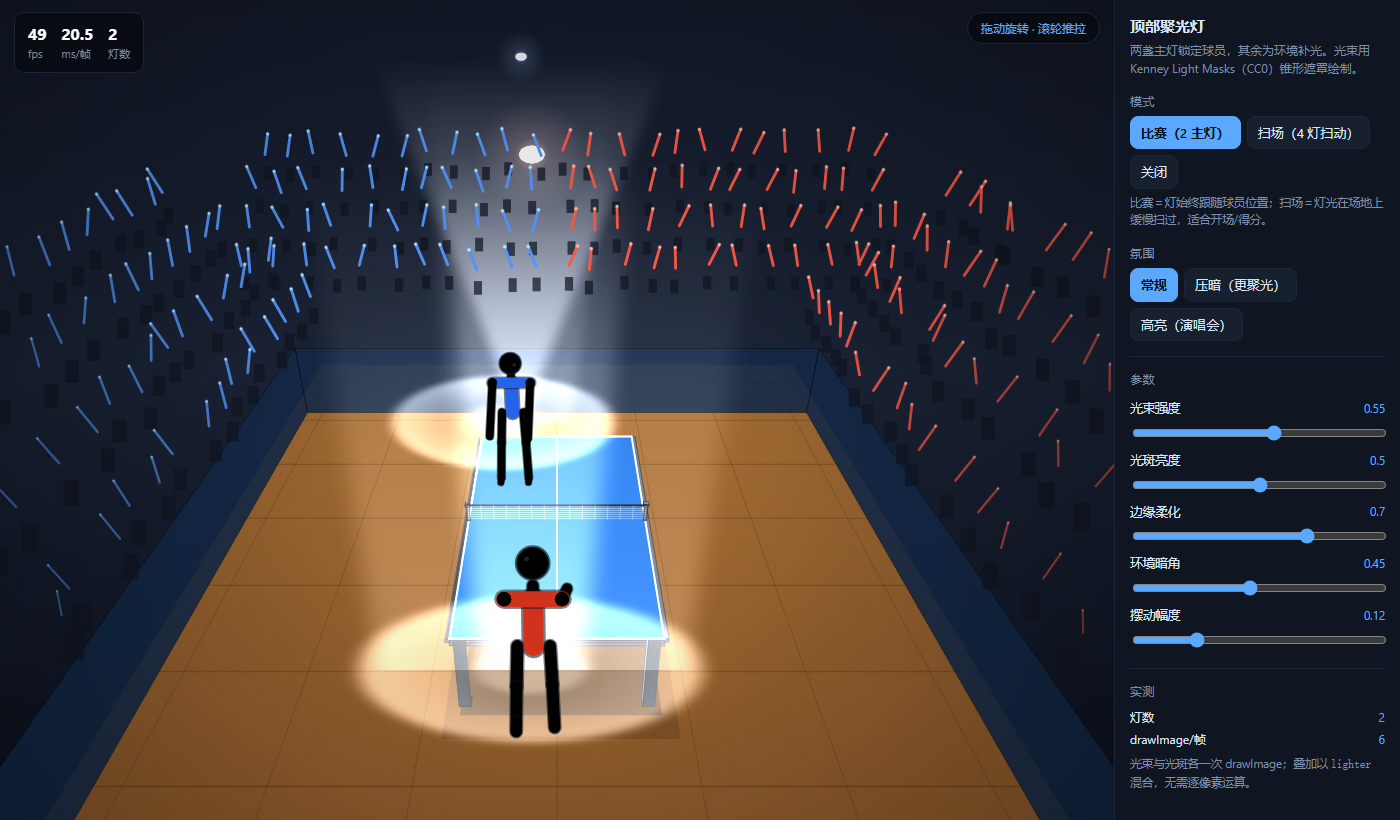
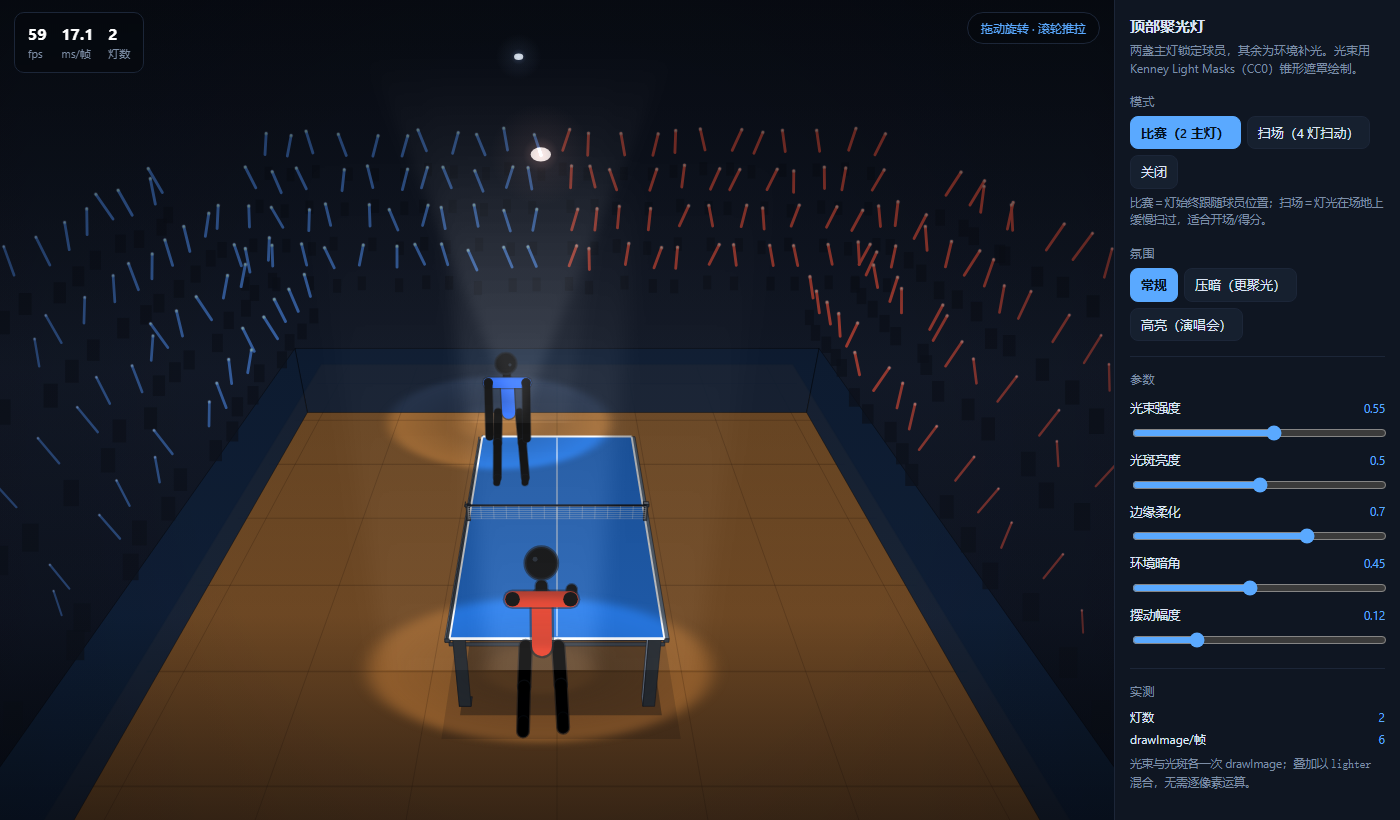
fix(聚光灯): 改为「快照→压暗→遮罩贴回」，解决过亮晃眼与遮挡画面
用户反馈：闪光过亮、晃眼、遮住游戏画面要素。按「拿来主义」吸收体育转播/引擎
shadow-mask 灯光的三条共识后重做光照架构。

★ 根因：旧版用 lighter 把光束(0.55) 与光斑(0.50) **相加**，
  在球员脚下 = 1.05 > 1.0 ⇒ 截断成纯白，既晃眼又把球员/球/台面糊掉。
  「加光」思路的必然结果，调小参数只能缓解不能根治。

新架构（减法）：
  ① takeSnapshot()      压暗前先快照完整场景
  ② drawDarken()        整体压暗（纵向渐变：上下缘重、台面区轻 ⇒ 避让信息区）
  ③ drawPoolsRestore()  用光斑遮罩把快照「贴回」 ⇒ 光斑内 = 原亮度，**不可能超过 1.0**
  ④ drawBeam()          光束 alpha 压到 0.09~0.20（原 0.55），只做空气感
  ⑤ drawLamp()          灯芯 0.95→0.8、光晕 0.55→0.28、半径 0.05→0.04m

吸收的三条设计原则：
  · 灯光是减法不是加法（引擎里 shadow-mask 灯光都是「先压暗、再遮罩还原」）
  · 光束要「几乎看不见」（真实灯束只在烟尘里可见，转播里只见灯位亮点+地面光斑）
  · 灯光避让信息区（压暗用纵向渐变，光斑只落在台面/球员）

踩坑记录（两版失败才做对）：
  · v1 用 destination-out 擦画布 ⇒ 擦出的是**透明**，露出黑底，光斑变黑洞
  · v2 先画遮罩再 destination-in 贴快照 ⇒ 保留的是**遮罩的白色**，一坨白斑
  · 正确：destination-in = 「保留**目标**颜色、用**源**alpha 裁剪」
    ⇒ 必须先画快照（目标），再用遮罩（源）裁；多灯取并集需单独累积 MASK 画布

验证（无头 Edge 1400x820）：
  · 0 JS 报错；比赛/扫场/压暗/高亮四组截图均无过曝
  · 59 fps（软件渲染）；光斑内台面/球员/球清晰可辨
  · check-docs 无死链（14 md / 17 链接）

截图已更新：docs/spotlight_match.png、docs/spotlight_sweep.png

diff --git a/tools/spotlight-demo.html b/tools/spotlight-demo.html
@@ -217,34 +217,164 @@ const SWEEP = [
 /* 灯位：球馆顶部。4.2m + 靠近球员上方——太远会把灯投到画面外，只剩无源白柱。 */
 const LAMP_Y = 4.2;
 
-/* 画一个光束：从灯位到地面目标，用锥形遮罩贴图，贴图下端对准光斑 */
+/* ═══════════════════════════════════════════════════════════════
+ * 光照架构（2026-10-22 重做 v2）：快照 → 压暗 → 按遮罩贴回原图
+ *
+ * 上一版的错误：用 destination-out 直接擦画布 ⇒ 擦出的是**透明**，
+ * 露出下面的黑底 ⇒ 光斑变成黑洞。destination-out 只能擦掉"画布上的像素"，
+ * 擦不出"原本更亮的画面"。
+ *
+ * 正确做法（也是游戏引擎里 shadow-mask 灯光的标准做法）：
+ *   ① 先把「完整场景」快照到一张离屏 canvas
+ *   ② 主画布上整体压暗
+ *   ③ 用遮罩贴图做 destination-in，把快照里「光斑区域」贴回主画布
+ *      ⇒ 光斑内 = 快照原亮度（≤1.0，不可能过曝）
+ *      ⇒ 光斑外 = 压暗后的画面
+ *
+ * 这样灯光是纯减法：只有光斑里恢复原样，其余变暗。
+ * 玩家要看的球/球员/台面在光斑内**完全清晰**，且亮度不超过原图。
+ * ═══════════════════════════════════════════════════════════════ */
+
+/* 离屏快照画布（按主画布尺寸，resize 时重建） */
+let SNAP = null, SNAP_CTX = null;
+function ensureSnap() {
+  const w = cv.width, h = cv.height;
+  if (!SNAP) {
+    SNAP = document.createElement('canvas');
+    SNAP_CTX = SNAP.getContext('2d');
+  }
+  if (SNAP.width !== w || SNAP.height !== h) { SNAP.width = w; SNAP.height = h; }
+  return SNAP_CTX;
+}
+
+/* 把当前主画布内容快照下来（在压暗之前调用） */
+function takeSnapshot() {
+  const sc = ensureSnap();
+  sc.setTransform(1, 0, 0, 1, 0, 0);
+  sc.clearRect(0, 0, SNAP.width, SNAP.height);
+  sc.drawImage(cv, 0, 0);
+}
+
+/* 压暗层：整屏乘暗系数。中下部（球台区）压得轻，上下缘压得重 */
+function drawDarken(strength) {
+  if (strength <= 0.01) return;
+  const g = ctx.createLinearGradient(0, 0, 0, H);
+  g.addColorStop(0, `rgba(2,4,8,${Math.min(1, strength * 1.3)})`);
+  g.addColorStop(0.45, `rgba(2,4,8,${strength * 0.68})`);
+  g.addColorStop(0.75, `rgba(2,4,8,${strength * 0.52})`);
+  g.addColorStop(1, `rgba(2,4,8,${Math.min(1, strength * 1.15)})`);
+  ctx.fillStyle = g;
+  ctx.fillRect(0, 0, W, H);
+}
+
+/* 光斑贴回：用遮罩贴图把快照的「光斑区域」画回主画布。
+   做法：在一张临时画布上，先用遮罩形状裁剪，再把快照贴上去，
+   最后把这张临时画布以 source-over 叠回主画布。 */
+let POOL_TMP = null, POOL_CTX = null;
+function ensurePoolTmp() {
+  const w = cv.width, h = cv.height;
+  if (!POOL_TMP) { POOL_TMP = document.createElement('canvas'); POOL_CTX = POOL_TMP.getContext('2d'); }
+  if (POOL_TMP.width !== w || POOL_TMP.height !== h) { POOL_TMP.width = w; POOL_TMP.height = h; }
+  return POOL_CTX;
+}
+
+/* 多光斑并集贴回。
+   ⚠ 合成顺序是唯一的坑：
+     destination-in = 「保留**目标**颜色，用**源**的 alpha 裁剪」。
+     ⇒ 必须 ① 先画快照（目标＝原始画面） ② 再用遮罩 alpha 裁剪。
+     反过来（先画遮罩、再 destination-in 贴快照）保留的是**遮罩的白色** ⇒ 一坨白斑。
+   多盏灯要取并集，故遮罩先单独累积到 MASK 画布，再一次性裁。 */
+let MASK = null, MASK_CTX = null;
+function ensureMask() {
+  const w = cv.width, h = cv.height;
+  if (!MASK) { MASK = document.createElement('canvas'); MASK_CTX = MASK.getContext('2d'); }
+  if (MASK.width !== w || MASK.height !== h) { MASK.width = w; MASK.height = h; }
+  return MASK_CTX;
+}
+
+function drawPoolsRestore(pools, imgPoolA, imgPoolB) {
+  if (!pools.length || !SNAP) return 0;
+  const mc = ensureMask();
+
+  /* ① 遮罩画布：把所有光斑**累加**成并集（lighter 保证重叠区不被冲淡） */
+  mc.setTransform(1, 0, 0, 1, 0, 0);
+  mc.globalCompositeOperation = 'source-over';
+  mc.globalAlpha = 1;
+  mc.clearRect(0, 0, MASK.width, MASK.height);
+  mc.globalCompositeOperation = 'lighter';
+
+  let drawn = 0;
+  for (const p of pools) {
+    const pr = cam.project(p.target);
+    if (!pr) continue;
+    const rx = p.radius * pr.s;
+    const ry = rx * 0.42;
+    if (rx < 2) continue;
+    const img = p.team === 0 ? imgPoolA : imgPoolB;
+    mc.globalAlpha = p.strength;
+    if (img) {
+      mc.drawImage(img, pr.x - rx, pr.y - ry, rx * 2, ry * 2);
+    } else {
+      const g = mc.createRadialGradient(pr.x, pr.y, 0, pr.x, pr.y, rx);
+      g.addColorStop(0, 'rgba(255,255,255,1)');
+      g.addColorStop(0.5, 'rgba(255,255,255,.75)');
+      g.addColorStop(1, 'rgba(255,255,255,0)');
+      mc.fillStyle = g;
+      mc.beginPath(); mc.ellipse(pr.x, pr.y, rx, ry, 0, 0, 7); mc.fill();
+    }
+    drawn++;
+  }
+  mc.globalAlpha = 1;
+  mc.globalCompositeOperation = 'source-over';
+  if (!drawn) return 0;
+
+  /* ② 临时画布：目标＝快照，源＝遮罩 alpha（destination-in 裁剪） */
+  const pc = ensurePoolTmp();
+  pc.setTransform(1, 0, 0, 1, 0, 0);
+  pc.globalCompositeOperation = 'source-over';
+  pc.globalAlpha = 1;
+  pc.clearRect(0, 0, POOL_TMP.width, POOL_TMP.height);
+  pc.drawImage(SNAP, 0, 0);
+  pc.globalCompositeOperation = 'destination-in';
+  pc.drawImage(MASK, 0, 0);
+  pc.globalCompositeOperation = 'source-over';
+
+  /* ③ 贴回主画布（覆盖压暗后的画面） */
+  ctx.save();
+  ctx.setTransform(1, 0, 0, 1, 0, 0);
+  ctx.globalCompositeOperation = 'source-over';
+  ctx.globalAlpha = 1;
+  ctx.drawImage(POOL_TMP, 0, 0);
+  ctx.restore();
+  return drawn;
+}
+
+/* 光束：极低 alpha 的锥形，只做"空气感"。
+   真实球馆的灯束只有在烟尘里才可见；转播里几乎看不到实体。
+   纵向衰减：近灯处几乎透明（否则会有一根白柱直插画面）。 */
 function drawBeam(lampPos, targetPos, radius, alpha, tint, img) {
+  if (alpha <= 0.005) return 0;
   const pLamp = cam.project(lampPos);
   const pTgt = cam.project(targetPos);
   if (!pLamp || !pTgt) return 0;
 
-  /* 目标处的横向半径（世界）→ 屏幕像素 */
-  const sT = pTgt.s;
-  const halfW = radius * sT;           // 光斑屏幕半宽
-  const beamH = pTgt.y - pLamp.y;      // 屏幕纵向长度
+  const halfW = radius * pTgt.s;
+  const beamH = pTgt.y - pLamp.y;
   if (beamH <= 2 || halfW <= 1) return 0;
 
   ctx.save();
   ctx.globalCompositeOperation = 'lighter';
-  ctx.globalAlpha = alpha;
-  /* 锥形贴图是"上窄下宽、上暗下亮"，正好对应灯→地面。
-     纵向只拉伸到 pTgt.y，**不越界**（此前 1.02 会把亮部顶到画面上缘，出现一道白柱）。
-     横向留白补偿 1.35：贴图两侧有透明边，直接按光斑宽度贴会显得太窄。 */
   const w = halfW * 2 * 1.35;
   const h = Math.max(4, beamH);
+
   if (img) {
+    ctx.globalAlpha = alpha;
     ctx.drawImage(img, pLamp.x - w / 2, pLamp.y, w, h);
   } else {
-    /* 回退：程序化锥形渐变 */
     const g = ctx.createLinearGradient(0, pLamp.y, 0, pTgt.y);
     g.addColorStop(0, `rgba(${tint},0)`);
-    g.addColorStop(0.35, `rgba(${tint},.35)`);
-    g.addColorStop(1, `rgba(${tint},.75)`);
+    g.addColorStop(0.45, `rgba(${tint},${alpha * 0.35})`);
+    g.addColorStop(1, `rgba(${tint},${alpha})`);
     ctx.fillStyle = g;
     ctx.beginPath();
     ctx.moveTo(pLamp.x - 2, pLamp.y);
@@ -257,60 +387,40 @@ function drawBeam(lampPos, targetPos, radius, alpha, tint, img) {
   return 1;
 }
 
-/* 地面光斑：圆贴图按透视压扁成椭圆（y 方向压缩 ≈ 俯视角的余弦） */
-function drawPool(targetPos, radius, alpha, tint, img) {
-  const p = cam.project(targetPos);
-  if (!p) return 0;
-  const rx = radius * p.s;
-  const ry = rx * 0.42;                // 俯视角压缩
-  if (rx < 2) return 0;
-  ctx.save();
-  ctx.globalCompositeOperation = 'lighter';
-  ctx.globalAlpha = alpha;
-  if (img) {
-    ctx.drawImage(img, p.x - rx, p.y - ry, rx * 2, ry * 2);
-  } else {
-    const g = ctx.createRadialGradient(p.x, p.y, 0, p.x, p.y, rx);
-    g.addColorStop(0, `rgba(${tint},.8)`);
-    g.addColorStop(0.55, `rgba(${tint},.35)`);
-    g.addColorStop(1, `rgba(${tint},0)`);
-    ctx.fillStyle = g;
-    ctx.beginPath(); ctx.ellipse(p.x, p.y, rx, ry, 0, 0, 7); ctx.fill();
-  }
-  ctx.restore();
-  return 1;
-}
-
 /* 灯具本体：光束得有"来源"，否则只是一根凭空出现的白柱。
    画一个发光的小椭圆 + 光晕（程序化，不依赖贴图）。 */
+/* 灯具：只留一个小亮点 + 很淡的光晕。
+   ⚠ 旧版画了 alpha 0.95 的白芯 + 0.55 的光晕，是"晃眼"的第二大来源
+   （第一是光束+光斑的 lighter 叠加）。转播里的灯位就是一个针尖大小的亮点。 */
 function drawLamp(lampPos, tint, intensity) {
   const p = cam.project(lampPos);
   if (!p) return 0;
-  /* 灯具在 4.6m 高处、离相机仅 ~4m，投影缩放很大（s≈150+），
-     所以世界半径必须很小（0.05m），否则会画成一个占满画面的"蘑菇"。 */
-  const r = Math.max(2, 0.05 * p.s);
+  /* 灯在 4.2m 高处、离相机约 4m，投影缩放 s≈150+ ⇒ 世界半径必须极小（0.04m） */
+  const r = Math.max(1.6, 0.04 * p.s);
   ctx.save();
   ctx.globalCompositeOperation = 'lighter';
-  /* 外壳光晕 */
-  const g = ctx.createRadialGradient(p.x, p.y, 0, p.x, p.y, r * 4.5);
-  g.addColorStop(0, `rgba(${tint},${0.55 * intensity})`);
-  g.addColorStop(0.3, `rgba(${tint},${0.16 * intensity})`);
+  /* 淡光晕（0.28 而非 0.55） */
+  const g = ctx.createRadialGradient(p.x, p.y, 0, p.x, p.y, r * 5);
+  g.addColorStop(0, `rgba(${tint},${0.28 * intensity})`);
+  g.addColorStop(0.35, `rgba(${tint},${0.07 * intensity})`);
   g.addColorStop(1, `rgba(${tint},0)`);
   ctx.fillStyle = g;
-  ctx.beginPath(); ctx.arc(p.x, p.y, r * 4.5, 0, 7); ctx.fill();
-  /* 灯芯：小而亮 */
-  ctx.fillStyle = `rgba(255,255,255,${0.95 * intensity})`;
+  ctx.beginPath(); ctx.arc(p.x, p.y, r * 5, 0, 7); ctx.fill();
+  /* 灯芯：小亮点（0.8 而非 0.95，且更小） */
+  ctx.fillStyle = `rgba(255,252,240,${0.8 * intensity})`;
   ctx.beginPath(); ctx.ellipse(p.x, p.y, r, r * 0.7, 0, 0, 7); ctx.fill();
   ctx.restore();
   return 1;
 }
 
-/* 环境压暗：以两个光斑为中心留亮，四周压暗（径向渐变减法） */
+/* 轻微暗角：只压四周边缘（不碰光斑内的画面要素）。
+   ⚠ 旧版这里是主压暗层，现在压暗已交给 drawDarken + erasePool，
+   本层只负责「四角收边」，强度必须很小（≤0.3），否则又会把画面压死。 */
 function drawVignette(time) {
-  const strength = { normal: P.vig, dark: Math.min(1, P.vig + 0.28), party: Math.max(0, P.vig - 0.3) }[P.amb];
+  const strength = { normal: P.vig * 0.45, dark: P.vig * 0.6, party: P.vig * 0.25 }[P.amb];
   if (strength <= 0.01) return;
-  const g = ctx.createRadialGradient(W / 2, H * 0.58, Math.min(W, H) * 0.22,
-                                     W / 2, H * 0.58, Math.max(W, H) * 0.78);
+  const g = ctx.createRadialGradient(W / 2, H * 0.55, Math.min(W, H) * 0.42,
+                                     W / 2, H * 0.55, Math.max(W, H) * 0.8);
   g.addColorStop(0, 'rgba(0,0,0,0)');
   g.addColorStop(1, `rgba(0,0,0,${strength})`);
   ctx.fillStyle = g;
@@ -426,10 +536,32 @@ function frame(now) {
     pl.vx = Math.cos(time * 0.85 + pl.side * 2.2) * 0.7 * 0.85;
   }
 
-  /* ① 光束（画在球员之前：光在空间里，人在光里） */
+  /* ② 球员 + ③ 观众 —— 先把「完整画面」画好 */
+  for (const pl of players) {
+    if (R.drawCharacter) R.drawCharacter(ctx, cam, pl, null, time, 0, false, false);
+  }
+  drawCrowd(time);
+
+  /* ④ 光照：快照 → 压暗 → 光斑贴回 → 淡光束
+     顺序不可换：快照必须在压暗之前，否则贴回的是"压暗后的自己"。 */
   let lightCount = 0;
   if (P.mode !== 'off') {
+    const amb = {
+      normal: { dark: 0.55, pool: 0.95, beam: 0.12 },
+      dark:   { dark: 0.76, pool: 0.98, beam: 0.09 },
+      party:  { dark: 0.36, pool: 0.88, beam: 0.20 },
+    }[P.amb];
+
+    /* ④a 快照（此时是完整、未经压暗的画面） */
+    takeSnapshot();
+
+    /* ④b 压暗 */
+    drawDarken(amb.dark);
+
+    /* ④c 光斑：把快照的光斑区域贴回（亮度 = 原图，不可能过曝） */
     const list = P.mode === 'sweep' ? SWEEP : LIGHTS;
+    const pools = [];
+    const targets = [];
     for (const L of list) {
       let tx, tz, radius = L.r;
       if (P.mode === 'sweep') {
@@ -437,33 +569,28 @@ function frame(now) {
         tz = Math.cos(time * L.sp * 0.8 + L.ph) * L.az;
         radius = 1.7;
       } else {
-        /* 比赛模式：主灯锁定球员（加一点滞后摆动，像真人追灯） */
         const pl = players[L.team];
         tx = pl.x + Math.sin(time * 0.7 + L.team) * P.sway;
         tz = pl.z;
       }
       const tint = L.team === 0 ? '255,170,150' : '150,190,255';
       const target = R.v3(tx, 0.76, tz);
-      /* 灯位：略在目标正上方偏后 */
       const lamp = R.v3(tx * 0.55, LAMP_Y, tz * 0.55 + (L.team === 0 ? -1.2 : 1.2));
+      pools.push({ target, radius, strength: amb.pool, team: L.team });
+      targets.push({ L, tint, target, lamp, radius });
+    }
+    DRAW_IMAGES += drawPoolsRestore(pools, IMG.circA, IMG.circB);
+
+    /* ④d 光束：极低 alpha，只做空气感 */
+    for (const { L, tint, target, lamp, radius } of targets) {
       const beamImg = L.team === 0 ? IMG.coneA : IMG.coneB;
-      const poolImg = L.team === 0 ? IMG.circA : IMG.circB;
-      DRAW_IMAGES += drawBeam(lamp, target, radius, P.beam, tint, beamImg);
-      DRAW_IMAGES += drawPool(target, radius, P.pool, tint, poolImg);
-      DRAW_IMAGES += drawLamp(lamp, tint, Math.min(1, P.beam + 0.35));
+      DRAW_IMAGES += drawBeam(lamp, target, radius, Math.min(P.beam, amb.beam), tint, beamImg);
+      DRAW_IMAGES += drawLamp(lamp, tint, 0.85);
       lightCount++;
     }
   }
 
-  /* ② 球员（在灯光之上，但会被光束轻微提亮） */
-  for (const pl of players) {
-    if (R.drawCharacter) R.drawCharacter(ctx, cam, pl, null, time, 0, false, false);
-  }
-
-  /* ③ 观众 */
-  drawCrowd(time);
-
-  /* ④ 环境压暗（最上层：让光斑外变暗） */
+  /* ④d 轻微暗角（最上层，仅压四周，不影响光斑内画面） */
   drawVignette(time);
 
   /* HUD */

diff --git a/docs/顶部聚光灯方案_20261022.md b/docs/顶部聚光灯方案_20261022.md
@@ -7,10 +7,30 @@
 
 ## 〇、一句话
 
-用 **3 层叠加**做出聚光灯：**光束（锥形遮罩）+ 地面光斑（椭圆遮罩）+ 环境压暗（径向渐变）**，
-全部走 `lighter` 混合，2 盏灯每帧只有 **6 次 `drawImage`**，不碰像素级运算。
+用 **快照 → 压暗 → 光斑贴回** 做出聚光灯：灯光是**减法**，
+光斑内恢复原始画面亮度（**物理上不可能超过 1.0，天然不晃眼**），光斑外自然压暗。
+2 盏灯每帧只有 **6 次 `drawImage` + 1 次全屏合成**，不碰像素级运算。
 
 演示：**`tools/spotlight-demo.html`**（双击即开）
+
+> ⚠ **第一版做错了**，值得记下来：用 `lighter` 把光束(0.55) 和光斑(0.50) 相加，
+> 在球员脚下 = **1.05 > 1.0 ⇒ 截断成纯白**，既晃眼又把球员/球/台面糊掉。
+> 这是"加光"思路的必然结果。改"减光"后问题消失。
+
+---
+
+## 〇之二、吸收的设计原则（拿来主义）
+
+看过体育转播与游戏引擎的常见做法后，采纳了三条：
+
+| 原则 | 来源共识 | 本方案怎么落 |
+|---|---|---|
+| **① 灯光是减法，不是加法** | 引擎里 shadow-mask 灯光都是「先压暗、再用遮罩还原」；没人往画面上直接加白 | 快照 → 压暗 → 用光斑遮罩把快照贴回。**光斑内 = 原亮度**，不可能过曝 |
+| **② 光束要"几乎看不见"** | 真实灯束只在烟尘里可见；转播画面里基本只有灯位亮点 + 地面光斑 | 光束 alpha 压到 **0.09~0.20**（第一版 0.55） |
+| **③ 灯光避让信息区** | UI/HUD 不能被光扫过 | 压暗层用**纵向渐变**：上下缘压得重、台面区压得轻；光斑只落在台面/球员 |
+
+**这三条合起来正好回答你的三个要求**：
+不晃眼（①③）、聚焦球员（光斑锁定）、不遮画面要素（②③）。
 
 ---
 
